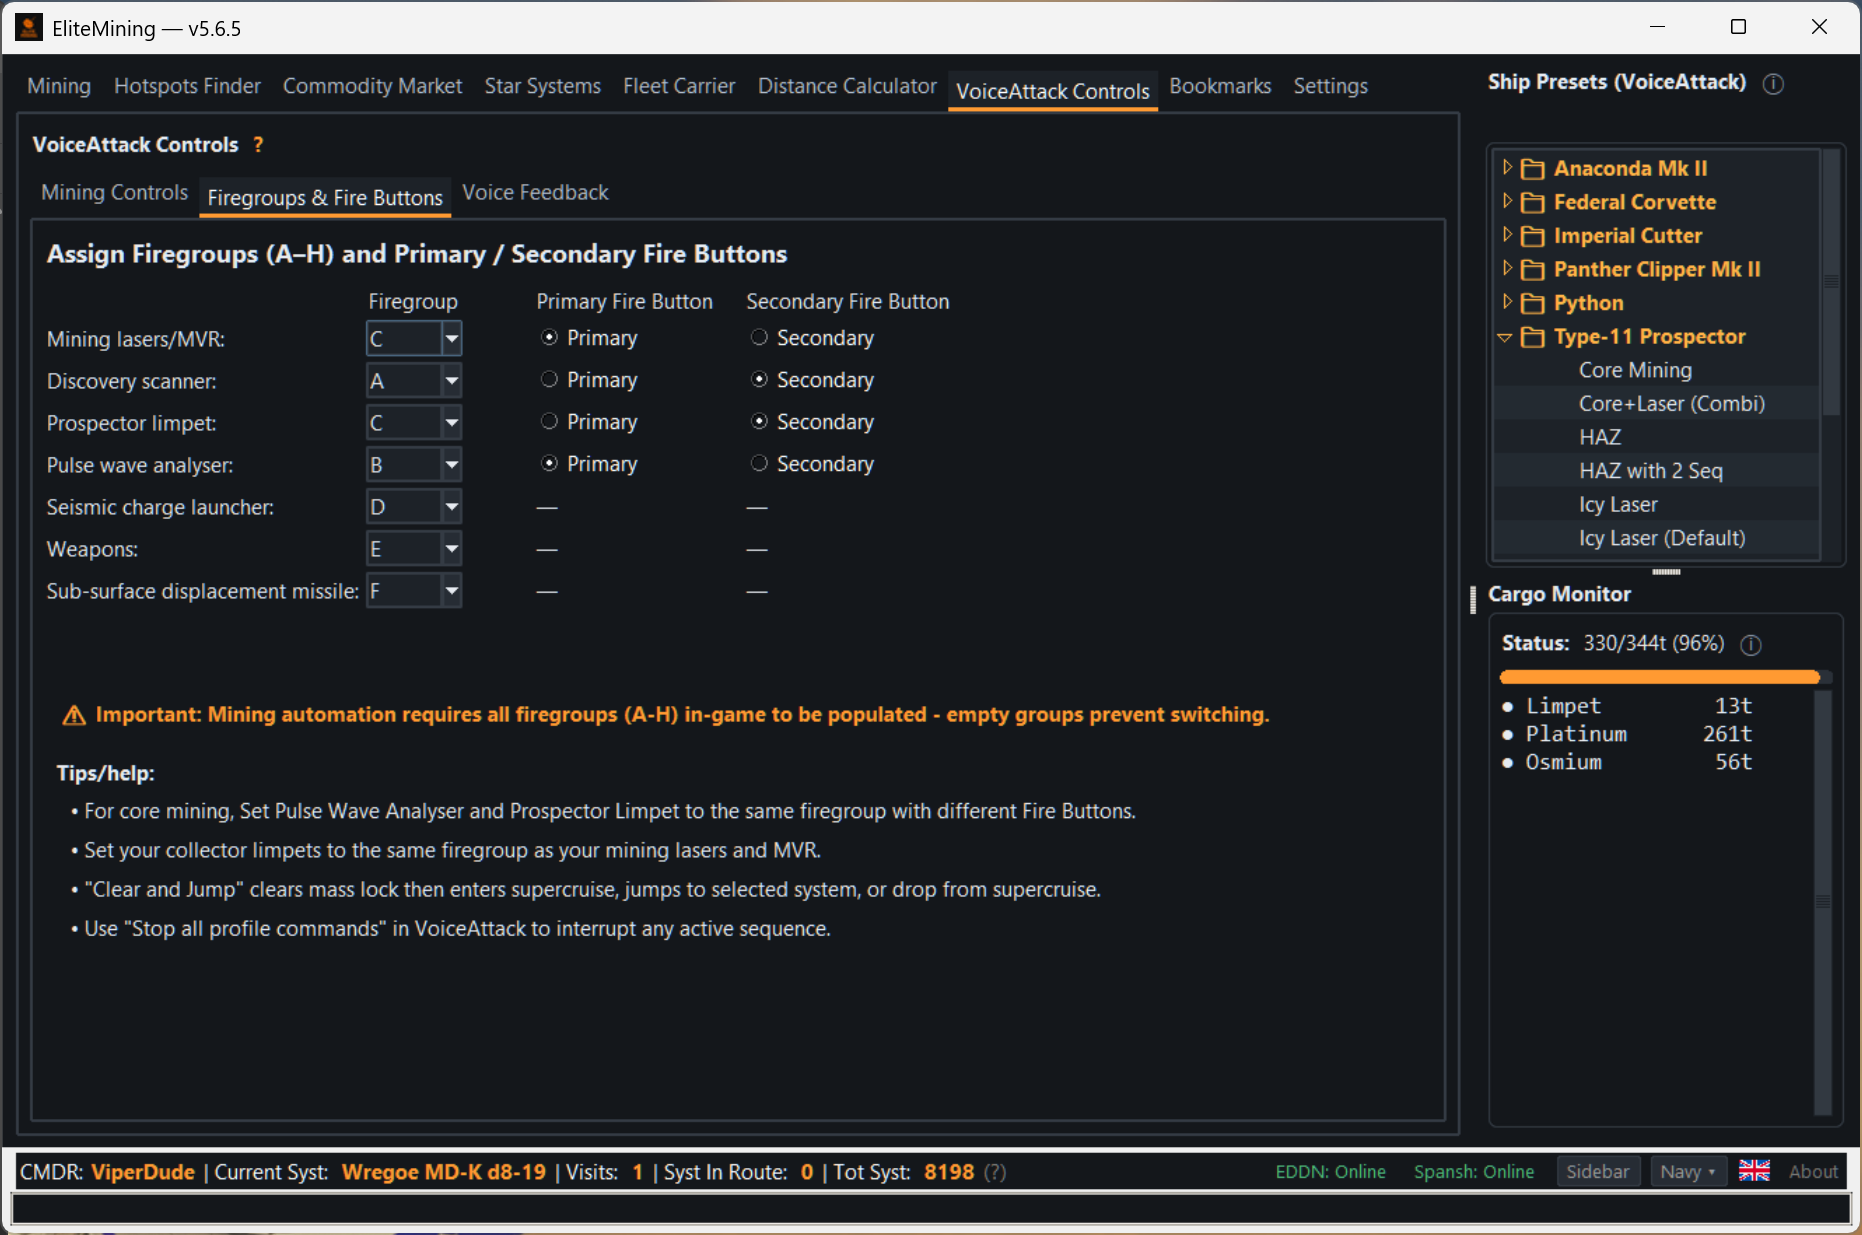
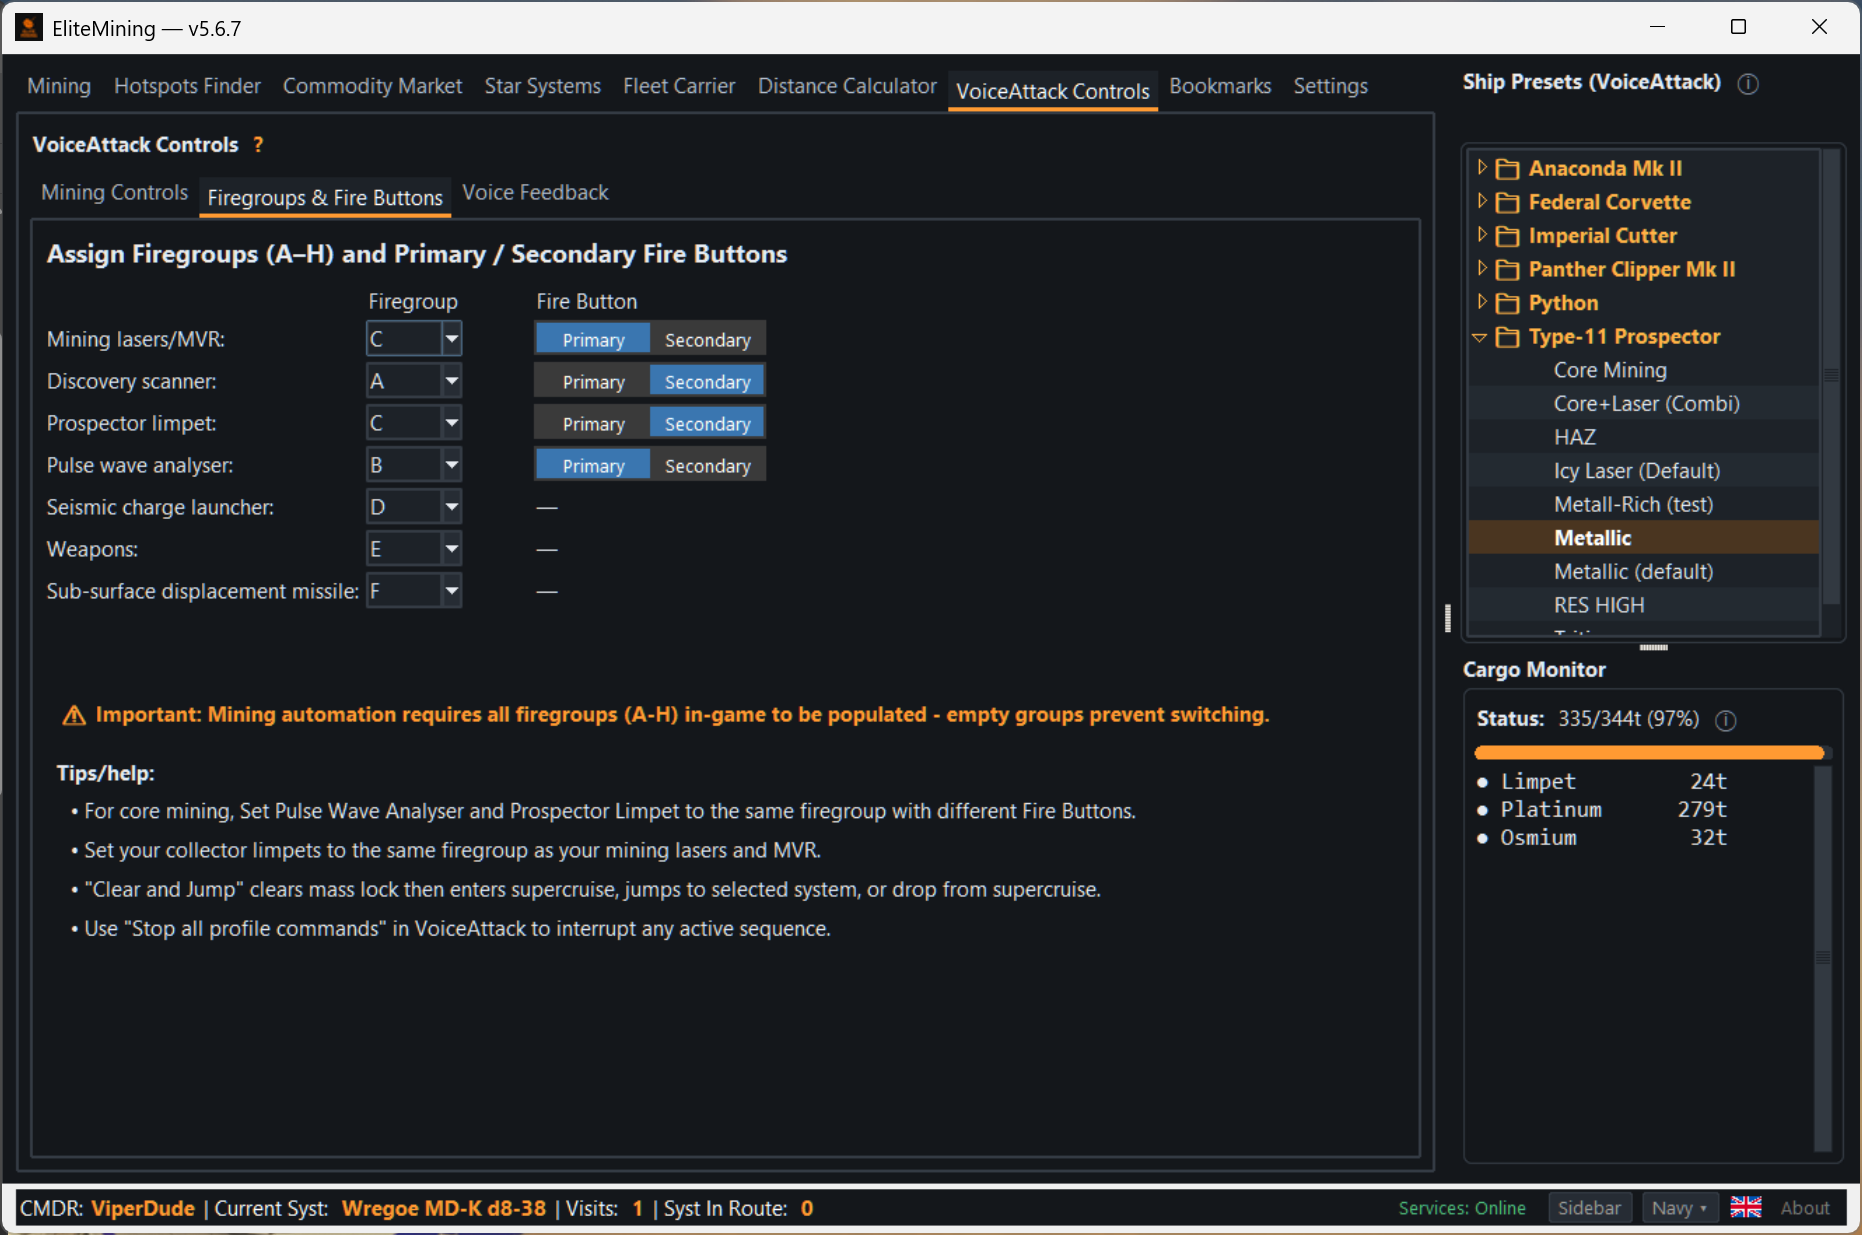
Refresh v5.6.7 screenshots and add a clickable screenshot list for retaking them

Changed region(s): [[0.0, 0.1231, 1.0, 1.0], [0.2803, 0.2154, 0.4984, 0.4], [0.7787, 0.0615, 0.9656, 0.0923]]

diff --git a/docs/SCREENSHOT_LIST.html b/docs/SCREENSHOT_LIST.html
@@ -1,0 +1,58 @@
+<!doctype html><html><head><meta charset="utf-8"><meta name="viewport" content="width=device-width,initial-scale=1"><title>EliteMining Screenshot List</title><style>body{font:15px Segoe UI,sans-serif;margin:24px;background:#fff;color:#222}h1{font-size:22px}h2{margin-top:28px;font-size:17px;border-bottom:2px solid #ccc;padding-bottom:4px}table{border-collapse:collapse;width:100%}th,td{text-align:left;padding:6px 10px;border-bottom:1px solid #ddd;vertical-align:middle}th{background:#f2f2f2}td.f{font-family:Consolas,monospace;white-space:nowrap}img{height:44px;border:1px solid #bbb;vertical-align:middle;margin-right:8px}a{color:#0b5cad}tr:hover{background:#f7faff}@media(prefers-color-scheme:dark){body{background:#1b1b1b;color:#ddd}th{background:#2a2a2a}td,th{border-color:#444}a{color:#6cb4ff}tr:hover{background:#242a33}}</style></head><body><h1>EliteMining Screenshot List</h1><p>Images are in the Screenshot folder. Section links open the README on GitHub. Click a thumbnail to open the file.</p>
+<h2>Installation / VoiceAttack</h2><table><tr><th>File</th><th>Where in the app</th><th>README section</th></tr>
+<tr><td class="f"><a href="../Screenshot/voiceattack_plugin.png"><img src="../Screenshot/voiceattack_plugin.png" alt=""></a>voiceattack_plugin.png</td><td>VoiceAttack: Options → Plugins</td><td><a href="https://github.com/Viper-Dude/EliteMining/blob/main/README.md#enable-voiceattack-plugins" target="_blank">Enable VoiceAttack Plugins</a></td></tr>
+<tr><td class="f"><a href="../Screenshot/voiceattack_profile_options.png"><img src="../Screenshot/voiceattack_profile_options.png" alt=""></a>voiceattack_profile_options.png</td><td>VoiceAttack: select the profile → Options</td><td><a href="https://github.com/Viper-Dude/EliteMining/blob/main/README.md#adding-custom-commands" target="_blank">Adding Custom Commands</a></td></tr>
+<tr><td class="f"><a href="../Screenshot/customize_columns.png"><img src="../Screenshot/customize_columns.png" alt=""></a>customize_columns.png</td><td>Any table → **Columns** button</td><td><a href="https://github.com/Viper-Dude/EliteMining/blob/main/README.md#customize-table-columns" target="_blank">Customize Table Columns</a></td></tr>
+</table>
+<h2>VoiceAttack Controls tab (sub-tabs: Mining Controls, Firegroups, Voice Feedback)</h2><table><tr><th>File</th><th>Where in the app</th><th>README section</th></tr>
+<tr><td class="f"><a href="../Screenshot/voiceattack_mining_controls.png"><img src="../Screenshot/voiceattack_mining_controls.png" alt=""></a>voiceattack_mining_controls.png</td><td>VoiceAttack Controls → Mining Controls</td><td><a href="https://github.com/Viper-Dude/EliteMining/blob/main/README.md#mining-controls-voiceattack" target="_blank">Mining Controls (VoiceAttack)</a></td></tr>
+<tr><td class="f"><a href="../Screenshot/voiceattack_firegroups.png"><img src="../Screenshot/voiceattack_firegroups.png" alt=""></a>voiceattack_firegroups.png</td><td>VoiceAttack Controls → Firegroups &amp; Fire Buttons</td><td><a href="https://github.com/Viper-Dude/EliteMining/blob/main/README.md#firegroups--fire-buttons" target="_blank">Firegroups &amp; Fire Buttons</a></td></tr>
+<tr><td class="f"><a href="../Screenshot/voice_feedback.png"><img src="../Screenshot/voice_feedback.png" alt=""></a>voice_feedback.png</td><td>VoiceAttack Controls → Voice Feedback</td><td><a href="https://github.com/Viper-Dude/EliteMining/blob/main/README.md#voice-feedback" target="_blank">Voice Feedback</a></td></tr>
+</table>
+<h2>In-game Elite Dangerous setup</h2><table><tr><th>File</th><th>Where in the app</th><th>README section</th></tr>
+<tr><td class="f"><a href="../Screenshot/elite_dangerous_firegroups.png"><img src="../Screenshot/elite_dangerous_firegroups.png" alt=""></a>elite_dangerous_firegroups.png</td><td>In-game Elite Dangerous firegroup screen</td><td><a href="https://github.com/Viper-Dude/EliteMining/blob/main/README.md#firegroup-fg-setup" target="_blank">Firegroup (FG) Setup</a></td></tr>
+<tr><td class="f"><a href="../Screenshot/elite_dangerous_fire_bindings.png"><img src="../Screenshot/elite_dangerous_fire_bindings.png" alt=""></a>elite_dangerous_fire_bindings.png</td><td>In-game Elite Dangerous controls</td><td><a href="https://github.com/Viper-Dude/EliteMining/blob/main/README.md#key--hotas-bindings" target="_blank">Key / HOTAS Bindings</a></td></tr>
+</table>
+<h2>Hotspot Finder, Commodity Market and other tabs</h2><table><tr><th>File</th><th>Where in the app</th><th>README section</th></tr>
+<tr><td class="f"><a href="../Screenshot/ring_finder.png"><img src="../Screenshot/ring_finder.png" alt=""></a>ring_finder.png</td><td>Hotspots Finder (main view)</td><td><a href="https://github.com/Viper-Dude/EliteMining/blob/main/README.md#hotspot-finder" target="_blank">Hotspot Finder</a></td></tr>
+<tr><td class="f"><a href="../Screenshot/ring_finder_edit_ring.png"><img src="../Screenshot/ring_finder_edit_ring.png" alt=""></a>ring_finder_edit_ring.png</td><td>Hotspots Finder → right-click → Edit Ring Data</td><td><a href="https://github.com/Viper-Dude/EliteMining/blob/main/README.md#setting--managing-overlapres-data" target="_blank">Overlap/RES Data</a></td></tr>
+<tr><td class="f"><a href="../Screenshot/find_acquisition_targets.png"><img src="../Screenshot/find_acquisition_targets.png" alt=""></a>find_acquisition_targets.png</td><td>Hotspots Finder → Find Acquisition Systems (setup)</td><td><a href="https://github.com/Viper-Dude/EliteMining/blob/main/README.md#hotspot-finder" target="_blank">Hotspot Finder</a></td></tr>
+<tr><td class="f"><a href="../Screenshot/find_acquisition_targets_results.png"><img src="../Screenshot/find_acquisition_targets_results.png" alt=""></a>find_acquisition_targets_results.png</td><td>Same dialog, results</td><td><a href="https://github.com/Viper-Dude/EliteMining/blob/main/README.md#hotspot-finder" target="_blank">Hotspot Finder</a></td></tr>
+<tr><td class="f"><a href="../Screenshot/best_minerals_ring.png"><img src="../Screenshot/best_minerals_ring.png" alt=""></a>best_minerals_ring.png</td><td>Best Mineral to Mine (ring scope)</td><td><a href="https://github.com/Viper-Dude/EliteMining/blob/main/README.md#hotspot-finder" target="_blank">Hotspot Finder</a></td></tr>
+<tr><td class="f"><a href="../Screenshot/best_minerals_add_ring.png"><img src="../Screenshot/best_minerals_add_ring.png" alt=""></a>best_minerals_add_ring.png</td><td>Best Mineral to Mine → + Also Check</td><td><a href="https://github.com/Viper-Dude/EliteMining/blob/main/README.md#hotspot-finder" target="_blank">Hotspot Finder</a></td></tr>
+<tr><td class="f"><a href="../Screenshot/best_minerals_system.png"><img src="../Screenshot/best_minerals_system.png" alt=""></a>best_minerals_system.png</td><td>Best Mineral to Mine (system scope)</td><td><a href="https://github.com/Viper-Dude/EliteMining/blob/main/README.md#hotspot-finder" target="_blank">Hotspot Finder</a></td></tr>
+<tr><td class="f"><a href="../Screenshot/commodity_market.png"><img src="../Screenshot/commodity_market.png" alt=""></a>commodity_market.png</td><td>Commodity Market → Mining search results</td><td><a href="https://github.com/Viper-Dude/EliteMining/blob/main/README.md#commodity-market" target="_blank">Commodity Market</a></td></tr>
+<tr><td class="f"><a href="../Screenshot/commodity_market_multiple_prices.png"><img src="../Screenshot/commodity_market_multiple_prices.png" alt=""></a>commodity_market_multiple_prices.png</td><td>Commodity Market → multiple prices</td><td><a href="https://github.com/Viper-Dude/EliteMining/blob/main/README.md#commodity-market" target="_blank">Commodity Market</a></td></tr>
+<tr><td class="f"><a href="../Screenshot/sell_my_hold.png"><img src="../Screenshot/sell_my_hold.png" alt=""></a>sell_my_hold.png</td><td>Commodity Market → Sell My Hold</td><td><a href="https://github.com/Viper-Dude/EliteMining/blob/main/README.md#sell-my-hold" target="_blank">Sell My Hold</a></td></tr>
+<tr><td class="f"><a href="../Screenshot/commodity_market_trade.png"><img src="../Screenshot/commodity_market_trade.png" alt=""></a>commodity_market_trade.png</td><td>Commodity Market → Trade</td><td><a href="https://github.com/Viper-Dude/EliteMining/blob/main/README.md#commodity-market" target="_blank">Commodity Market</a></td></tr>
+<tr><td class="f"><a href="../Screenshot/mining_missions.png"><img src="../Screenshot/mining_missions.png" alt=""></a>mining_missions.png</td><td>Mining Missions</td><td><a href="https://github.com/Viper-Dude/EliteMining/blob/main/README.md#mining-missions" target="_blank">Mining Missions</a></td></tr>
+<tr><td class="f"><a href="../Screenshot/mining_reference.png"><img src="../Screenshot/mining_reference.png" alt=""></a>mining_reference.png</td><td>Ring Mining Reference</td><td><a href="https://github.com/Viper-Dude/EliteMining/blob/main/README.md#ring-mining-reference" target="_blank">Ring Mining Reference</a></td></tr>
+<tr><td class="f"><a href="../Screenshot/star_systems.png"><img src="../Screenshot/star_systems.png" alt=""></a>star_systems.png</td><td>Star Systems</td><td><a href="https://github.com/Viper-Dude/EliteMining/blob/main/README.md#star-systems" target="_blank">Star Systems</a></td></tr>
+<tr><td class="f"><a href="../Screenshot/distance_calculator.png"><img src="../Screenshot/distance_calculator.png" alt=""></a>distance_calculator.png</td><td>Distance Calculator</td><td><a href="https://github.com/Viper-Dude/EliteMining/blob/main/README.md#distance-calculator" target="_blank">Distance Calculator</a></td></tr>
+<tr><td class="f"><a href="../Screenshot/fleet_carrier.png"><img src="../Screenshot/fleet_carrier.png" alt=""></a>fleet_carrier.png</td><td>Fleet Carrier</td><td><a href="https://github.com/Viper-Dude/EliteMining/blob/main/README.md#fleet-carrier" target="_blank">Fleet Carrier</a></td></tr>
+</table>
+<h2>Mining Session tab</h2><table><tr><th>File</th><th>Where in the app</th><th>README section</th></tr>
+<tr><td class="f"><a href="../Screenshot/mining_session.png"><img src="../Screenshot/mining_session.png" alt=""></a>mining_session.png</td><td>Mining → Session</td><td><a href="https://github.com/Viper-Dude/EliteMining/blob/main/README.md#mining-session" target="_blank">Mining Session</a></td></tr>
+<tr><td class="f"><a href="../Screenshot/mining_analytics_yield_timeline.png"><img src="../Screenshot/mining_analytics_yield_timeline.png" alt=""></a>mining_analytics_yield_timeline.png</td><td>Mining → Session → Analytics, yield timeline chart</td><td><a href="https://github.com/Viper-Dude/EliteMining/blob/main/README.md#mining-analytics" target="_blank">Mining Analytics</a></td></tr>
+<tr><td class="f"><a href="../Screenshot/mining_analytics_material_comparison.png"><img src="../Screenshot/mining_analytics_material_comparison.png" alt=""></a>mining_analytics_material_comparison.png</td><td>Mining → Session → Analytics, material comparison chart</td><td><a href="https://github.com/Viper-Dude/EliteMining/blob/main/README.md#mining-analytics" target="_blank">Mining Analytics</a></td></tr>
+<tr><td class="f"><a href="../Screenshot/mining_reports.png"><img src="../Screenshot/mining_reports.png" alt=""></a>mining_reports.png</td><td>Mining → Reports</td><td><a href="https://github.com/Viper-Dude/EliteMining/blob/main/README.md#reports" target="_blank">Reports</a></td></tr>
+<tr><td class="f"><a href="../Screenshot/mining_report_details_1.png"><img src="../Screenshot/mining_report_details_1.png" alt=""></a><a href="../Screenshot/mining_report_details_2.png"><img src="../Screenshot/mining_report_details_2.png" alt=""></a><a href="../Screenshot/mining_report_details_3.png"><img src="../Screenshot/mining_report_details_3.png" alt=""></a>mining_report_details_1.png mining_report_details_2.png mining_report_details_3.png</td><td>HTML report opened from Reports (three pages)</td><td><a href="https://github.com/Viper-Dude/EliteMining/blob/main/README.md#detailed-html-reports" target="_blank">Detailed HTML Reports</a></td></tr>
+<tr><td class="f"><a href="../Screenshot/mining_cards.png"><img src="../Screenshot/mining_cards.png" alt=""></a>mining_cards.png</td><td>Reports → right-click → Create mining card</td><td><a href="https://github.com/Viper-Dude/EliteMining/blob/main/README.md#-mining-cards" target="_blank">Mining Cards</a></td></tr>
+<tr><td class="f"><a href="../Screenshot/mining_bookmarks.png"><img src="../Screenshot/mining_bookmarks.png" alt=""></a>mining_bookmarks.png</td><td>Mining → Bookmarks</td><td><a href="https://github.com/Viper-Dude/EliteMining/blob/main/README.md#bookmarks" target="_blank">Bookmarks</a></td></tr>
+<tr><td class="f"><a href="../Screenshot/mining_statistics_overview.png"><img src="../Screenshot/mining_statistics_overview.png" alt=""></a>mining_statistics_overview.png</td><td>Mining → Statistics → Overview</td><td><a href="https://github.com/Viper-Dude/EliteMining/blob/main/README.md#mining-statistics" target="_blank">Mining Statistics</a></td></tr>
+<tr><td class="f"><a href="../Screenshot/mining_statistics_my_data.png"><img src="../Screenshot/mining_statistics_my_data.png" alt=""></a>mining_statistics_my_data.png</td><td>Mining → Statistics → My Mining Data</td><td><a href="https://github.com/Viper-Dude/EliteMining/blob/main/README.md#mining-statistics" target="_blank">Mining Statistics</a></td></tr>
+<tr><td class="f"><a href="../Screenshot/mining_statistics_top_20_locations.png"><img src="../Screenshot/mining_statistics_top_20_locations.png" alt=""></a>mining_statistics_top_20_locations.png</td><td>Mining → Statistics → Top 20 Best Locations</td><td><a href="https://github.com/Viper-Dude/EliteMining/blob/main/README.md#mining-statistics" target="_blank">Mining Statistics</a></td></tr>
+<tr><td class="f"><a href="../Screenshot/mining_statistics_last_20_mining_locations.png"><img src="../Screenshot/mining_statistics_last_20_mining_locations.png" alt=""></a>mining_statistics_last_20_mining_locations.png</td><td>Mining → Statistics → Last 20 Mining Locations</td><td><a href="https://github.com/Viper-Dude/EliteMining/blob/main/README.md#mining-statistics" target="_blank">Mining Statistics</a></td></tr>
+<tr><td class="f"><a href="../Screenshot/mining_statistics_last_20_visited_systems.png"><img src="../Screenshot/mining_statistics_last_20_visited_systems.png" alt=""></a>mining_statistics_last_20_visited_systems.png</td><td>Mining → Statistics → Last 20 Visited Systems</td><td><a href="https://github.com/Viper-Dude/EliteMining/blob/main/README.md#mining-statistics" target="_blank">Mining Statistics</a></td></tr>
+<tr><td class="f"><a href="../Screenshot/mining_statistics_database.png"><img src="../Screenshot/mining_statistics_database.png" alt=""></a>mining_statistics_database.png</td><td>Mining → Statistics → Database</td><td>Not referenced in README</td></tr>
+</table>
+<h2>Settings and overlays</h2><table><tr><th>File</th><th>Where in the app</th><th>README section</th></tr>
+<tr><td class="f"><a href="../Screenshot/settings.png"><img src="../Screenshot/settings.png" alt=""></a>settings.png</td><td>Settings → General Settings</td><td><a href="https://github.com/Viper-Dude/EliteMining/blob/main/README.md#settings-tab" target="_blank">Settings Tab</a></td></tr>
+<tr><td class="f"><a href="../Screenshot/mining_announcements.png"><img src="../Screenshot/mining_announcements.png" alt=""></a>mining_announcements.png</td><td>Settings → Announcements</td><td><a href="https://github.com/Viper-Dude/EliteMining/blob/main/README.md#announcement-panel" target="_blank">Announcement Panel</a></td></tr>
+<tr><td class="f"><a href="../Screenshot/text_overlay.png"><img src="../Screenshot/text_overlay.png" alt=""></a>text_overlay.png</td><td>Text overlay in-game</td><td><a href="https://github.com/Viper-Dude/EliteMining/blob/main/README.md#text-overlay" target="_blank">Text Overlay</a></td></tr>
+<tr><td class="f"><a href="../Screenshot/text_overlay_enhanced.png"><img src="../Screenshot/text_overlay_enhanced.png" alt=""></a>text_overlay_enhanced.png</td><td>Text overlay, enhanced mode</td><td><a href="https://github.com/Viper-Dude/EliteMining/blob/main/README.md#text-overlay" target="_blank">Text Overlay</a></td></tr>
+<tr><td class="f"><a href="../Screenshot/text_overlay_auto_prices.png"><img src="../Screenshot/text_overlay_auto_prices.png" alt=""></a>text_overlay_auto_prices.png</td><td>Text overlay with Auto Prices</td><td><a href="https://github.com/Viper-Dude/EliteMining/blob/main/README.md#text-overlay" target="_blank">Text Overlay</a></td></tr>
+<tr><td class="f"><a href="../Screenshot/text_overlay_settings.png"><img src="../Screenshot/text_overlay_settings.png" alt=""></a>text_overlay_settings.png</td><td>Settings → General Settings → Text Overlay options</td><td><a href="https://github.com/Viper-Dude/EliteMining/blob/main/README.md#text-overlay" target="_blank">Text Overlay</a></td></tr>
+<tr><td class="f"><a href="../Screenshot/settings_backup_restore.png"><img src="../Screenshot/settings_backup_restore.png" alt=""></a>settings_backup_restore.png</td><td>Settings → General Settings → Backup &amp; Restore</td><td><a href="https://github.com/Viper-Dude/EliteMining/blob/main/README.md#backup--restore" target="_blank">Backup &amp; Restore</a></td></tr>
+<tr><td class="f"><a href="../Screenshot/ship_preset_announcement_link.png"><img src="../Screenshot/ship_preset_announcement_link.png" alt=""></a>ship_preset_announcement_link.png</td><td>Sidebar Ship Presets → right-click → Announcement Preset</td><td><a href="https://github.com/Viper-Dude/EliteMining/blob/main/README.md#mining-presets" target="_blank">Mining Presets</a></td></tr>
+</table></body></html>
